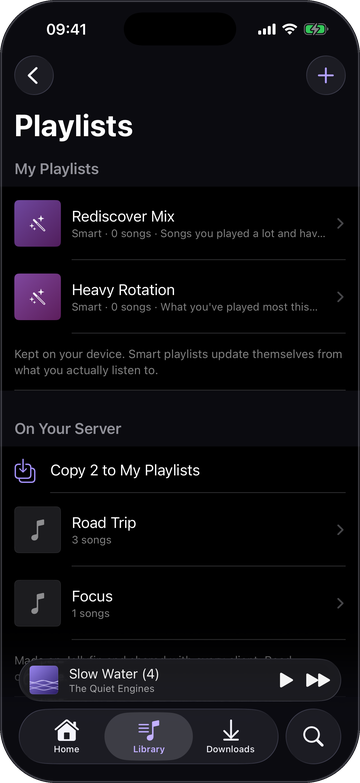
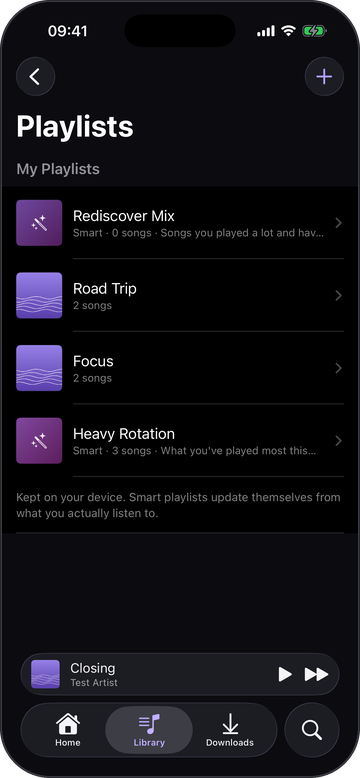
Say Melete where the docs and comments still said Jellyfin
CurationKit's comments now name Melete or "the server" where they
described the server, and the jellyfinId field says why it keeps its
name: it is the sync format every device and Melete share.

docs/sync-design.md describes Melete as the server it is now. The
design briefs to the sidecar keep their text, with a dated note that
Melete serves the same routes. crossfade.md's Infinity section
describes /aoide/next in place of Instant Mix.

The Playlists screenshot no longer shows the server section.

diff --git a/Packages/CurationKit/Sources/CurationKit/Playlists.swift b/Packages/CurationKit/Sources/CurationKit/Playlists.swift
@@ -3,10 +3,10 @@ import GRDB
 
 // MARK: - References
 
-/// The pair a playlist entry stores for every track: the id Jellyfin answers to
+/// The pair a playlist entry stores for every track: the id the server answers to
 /// today, and the fingerprint that outlives it.
 ///
-/// Both halves are kept because Jellyfin item ids are derived per-file — moving
+/// Both halves are kept because track ids belong to files — moving
 /// files or re-adding a library mints new ones on the next scan. An entry holding
 /// only an id would dangle with nothing left to search by; `relinkItems` is what
 /// the second half is for.
@@ -46,7 +46,7 @@ public enum PlaylistError: Error, Equatable, Sendable {
 public struct RelinkReport: Equatable, Sendable {
     /// Entries examined — every live playlist row.
     public var checked = 0
-    /// Rewritten to a new Jellyfin id found by content key.
+    /// Rewritten to a new track id found by content key.
     public var relinked = 0
     /// Previously marked unresolved and resolving again, so the mark was cleared.
     public var recovered = 0
@@ -61,12 +61,12 @@ public extension PlaylistItem {
     ///
     /// The schema has no `unresolved` column and this deliberately does not add one:
     /// the state is a property of the id — "this no longer points anywhere" — and a
-    /// migration for it would have to be agreed by every device and the sidecar
+    /// migration for it would have to be agreed by every device and the server
     /// before the flag could travel. Living inside a column that already syncs, it
     /// travels for free, and a build that has never heard of the marker simply fails
-    /// to resolve the id, which is precisely the situation the entry is in. Jellyfin
-    /// item ids are hex GUIDs, so a colon cannot occur in a real one and the marker
-    /// can never be mistaken for part of an id.
+    /// to resolve the id, which is precisely the situation the entry is in. Track
+    /// ids are integers (hex GUIDs in entries from Jellyfin), so a colon cannot
+    /// occur in a real one and the marker can never be mistaken for part of an id.
     static let unresolvedPrefix = "unresolved:"
 
     var isUnresolved: Bool { jellyfinId.hasPrefix(Self.unresolvedPrefix) }
@@ -444,7 +444,7 @@ public extension CurationStore {
 // MARK: - Relinking
 
 public extension CurationStore {
-    /// Repairs entries whose Jellyfin id stopped resolving, by content key.
+    /// Repairs entries whose track id stopped resolving, by content key.
     ///
     /// Two closures rather than one because they are two different questions and a
     /// caller may well answer them from two different places: `live` is "does this id
@@ -499,7 +499,7 @@ public extension CurationStore {
     }
 
     /// Relinks against the local track cache, which is this device's mirror of what
-    /// Jellyfin currently holds. This is the pass to run after a library scan.
+    /// the server currently holds. This is the pass to run after a library scan.
     @discardableResult
     func relinkItemsAgainstTrackCache(now: Millis = Date().millis) throws -> RelinkReport {
         let cache = try read { db in try TrackRef.fetchAll(db) }
@@ -647,10 +647,10 @@ private extension CurationStore {
     }
 }
 
-// MARK: - Importing from Jellyfin
+// MARK: - Importing server playlists
 
 public extension CurationStore {
-    /// The local copy of a Jellyfin playlist, if one has been imported.
+    /// The local copy of a server playlist, if one has been imported.
     func importedPlaylist(from sourceJellyfinId: String) throws -> Playlist? {
         try read { db in
             try Playlist
@@ -660,7 +660,7 @@ public extension CurationStore {
         }
     }
 
-    /// Which Jellyfin playlists already have a local copy.
+    /// Which server playlists already have a local copy.
     func importedSourceIds() throws -> Set<String> {
         try read { db in
             try Set(String.fetchAll(
@@ -670,9 +670,9 @@ public extension CurationStore {
         }
     }
 
-    /// Copies a Jellyfin playlist into a local one, or refreshes the copy that exists.
+    /// Copies a server playlist into a local one, or refreshes the copy that exists.
     ///
-    /// A copy rather than a link, because the two cannot stay in step: Jellyfin has no
+    /// A copy rather than a link, because the two cannot stay in step: the server has no
     /// way to tell us it changed, and a local playlist that silently drifts from a
     /// server one it claims to mirror is worse than an honest snapshot. Refreshing is
     /// therefore explicit, and replaces the contents outright — the server's order is
@@ -721,8 +721,8 @@ public extension CurationStore {
 
     /// Up to `limit` distinct albums per playlist, in playing order.
     ///
-    /// For drawing a cover from what a playlist holds, the way Jellyfin and Apple
-    /// Music both do. Distinct *albums* rather than tracks: a playlist of one album
+    /// For drawing a cover from what a playlist holds, the way Apple Music
+    /// does. Distinct *albums* rather than tracks: a playlist of one album
     /// would otherwise tile the same square four times, which reads as a rendering
     /// bug rather than as a deliberate mosaic.
     ///

diff --git a/Packages/CurationKit/Sources/CurationKit/Schema.swift b/Packages/CurationKit/Sources/CurationKit/Schema.swift
@@ -18,7 +18,7 @@ enum Schema {
         #endif
 
         migrator.registerMigration("v1") { db in
-            // Local cache of what Jellyfin knows, so a playlist can render its rows
+            // Local cache of what the server knows, so a playlist can render its rows
             // offline. Deliberately not synced: every device rebuilds it from its
             // own connection to the same server, and shipping it would dominate the
             // sync payload for no gain.
@@ -63,7 +63,7 @@ enum Schema {
                 t.primaryKey("id", .text)
                 t.column("playlistId", .text).notNull()
                 t.column("jellyfinId", .text).notNull()
-                // Stored beside the id because Jellyfin ids are derived per-file: a
+                // Stored beside the id because track ids belong to files: a
                 // library rescan after files move mints new ones, and without this
                 // every entry would dangle with no way back.
                 t.column("contentKey", .text).notNull()
@@ -86,9 +86,9 @@ enum Schema {
 
             // Append-only. Never updated after insert, which is what makes it the
             // easiest thing here to sync: there is no such thing as a conflicting
-            // append. It is also the only honest source of play counts — Jellyfin
-            // increments its own at playback *start*, so a four-second skip counts
-            // there exactly as much as a full listen.
+            // append. It is also the only honest source of play counts — a count
+            // taken at playback *start* counts a four-second skip
+            // exactly as much as a full listen.
             try db.create(table: "playEvent") { t in
                 t.primaryKey("id", .text)
                 t.column("jellyfinId", .text).notNull().indexed()
@@ -174,7 +174,7 @@ enum Schema {
         }
 
         migrator.registerMigration("v4") { db in
-            // Which Jellyfin playlist this was imported from, if any. Kept so a second
+            // Which server playlist this was imported from, if any. Kept so a second
             // import refreshes the same local playlist instead of silently making a
             // duplicate — and so the server list can say which of its playlists are
             // already here.
@@ -200,7 +200,7 @@ enum Schema {
         }
 
         migrator.registerMigration("v6") { db in
-            // A Jellyfin item id whose Primary image is this playlist's cover — never
+            // An album id whose cover is this playlist's cover — never
             // image bytes. The op log replays in full onto every fresh device and the
             // payload ceiling is 256 KB, so a cover stored as data would be the
             // largest thing in the system and would be copied forever. An id is
@@ -211,7 +211,7 @@ enum Schema {
             }
             // The album a cached track belongs to, so a playlist with no cover of its
             // own can be drawn from the albums it holds. The track cache is local and
-            // rebuilt from Jellyfin, so a null here just means "not seen since this
+            // rebuilt from the server, so a null here just means "not seen since this
             // column existed" and fills in on the next index.
             try db.alter(table: "track") { t in
                 t.add(column: "albumId", .text)

diff --git a/Packages/CurationKit/Sources/CurationKit/SyncEntity.swift b/Packages/CurationKit/Sources/CurationKit/SyncEntity.swift
@@ -4,8 +4,8 @@ import Foundation
 ///
 /// The names differ, and translating between them at the wire boundary is cheaper
 /// than agreeing on one: GRDB's tables are singular camelCase because the record
-/// types are, and the sidecar's allow-list is plural snake_case because its author
-/// wrote SQL. Rewriting every stored `op` row to spell its entity the server's way
+/// types are, and the server's allow-list is plural snake_case because the sidecar's
+/// author wrote SQL. Rewriting every stored `op` row to spell its entity the server's way
 /// would be a schema migration in service of a formatting preference, and it would
 /// still leave ops written by an older build spelling it the old way. Matching on
 /// the server is strict and case-sensitive, so these six strings *are* the contract.
@@ -20,7 +20,7 @@ public enum SyncEntity: String, CaseIterable, Hashable, Sendable {
 
     // `track` is absent on purpose, and its absence is the enforcement rather than a
     // rule written down somewhere. The track cache is per-device — every device
-    // rebuilds it from its own Jellyfin connection — so the server refuses the
+    // rebuilds it from its own server connection — so the server refuses the
     // entity outright. With no case to name it, an op for `track` cannot be turned
     // into a wire op at all; the only thing the push path can do with one is
     // quarantine it, which is what `WireOp.make` does.
@@ -28,7 +28,7 @@ public enum SyncEntity: String, CaseIterable, Hashable, Sendable {
     /// The GRDB table name, which is also this enum's raw value.
     public var localTable: String { rawValue }
 
-    /// The name in the sidecar's allow-list.
+    /// The name in the server's allow-list.
     public var wireName: String {
         switch self {
         case .playlist: "playlists"
@@ -43,7 +43,7 @@ public enum SyncEntity: String, CaseIterable, Hashable, Sendable {
 
     /// Entities a server may not know yet.
     ///
-    /// The sidecar's entity list is an allow-list and an unknown name is refused,
+    /// The server's entity list is an allow-list and an unknown name is refused,
     /// which by the contract would quarantine the op — real user data lost to a
     /// deployment order. Ops for these are held locally instead until the server
     /// advertises the entity in `/aoide/sync/status`. Everything older than the

diff --git a/Packages/CurationKit/Sources/CurationKit/Models.swift b/Packages/CurationKit/Sources/CurationKit/Models.swift
@@ -26,6 +26,8 @@ public protocol Syncable {
 public struct TrackRef: Codable, FetchableRecord, PersistableRecord, Hashable, Sendable {
     public static let databaseTableName = "track"
 
+    /// The server's track id. Named for Jellyfin, the server Aoide started on: the
+    /// name is part of the sync format every device and Melete share, so it stays.
     public var jellyfinId: String
     public var contentKey: String
     public var musicbrainzId: String?
@@ -75,7 +77,7 @@ public struct TrackRef: Codable, FetchableRecord, PersistableRecord, Hashable, S
     }
 }
 
-/// The fingerprint that survives a Jellyfin rescan.
+/// The fingerprint that survives a rescan that gives a track a new id.
 ///
 /// Normalised hard, because the point is to match the *same recording* after its id
 /// changed — not to be a checksum. Duration is rounded to the second so a re-encode
@@ -146,9 +148,10 @@ public struct Playlist: Codable, FetchableRecord, PersistableRecord, Syncable, F
     public var originDevice: String
     /// When each field last changed. `nil` on rows written before per-field merging.
     public var fieldUpdatedAt: FieldStamps?
-    /// The Jellyfin playlist this was imported from, if it was.
+    /// The server playlist this was imported from, if it was (Jellyfin playlists, before
+    /// Melete).
     public var sourceJellyfinId: String?
-    /// A Jellyfin item whose cover stands in for this playlist's. `nil` means one is
+    /// An album whose cover stands in for this playlist's. `nil` means one is
     /// drawn from the playlist's own albums instead.
     public var artworkItemId: String?
     /// SHA-256 of a cover uploaded for this playlist, when one was chosen from
@@ -365,7 +368,7 @@ public struct QueueState: Codable, FetchableRecord, PersistableRecord, Hashable,
 
     public var deviceId: String
     public var deviceName: String
-    /// JSON array of Jellyfin ids.
+    /// JSON array of track ids.
     public var trackIds: String
     public var position: Int
     public var elapsedMs: Int

diff --git a/Packages/CurationKit/Sources/CurationKit/SyncAccount.swift b/Packages/CurationKit/Sources/CurationKit/SyncAccount.swift
@@ -41,7 +41,7 @@ public extension CurationStore {
         }
     }
 
-    /// The Jellyfin user whose library this store holds, if it has been claimed.
+    /// The account whose library this store holds, if it has been claimed.
     func accountId() throws -> String? {
         try read { db in
             try String.fetchOne(db, sql: "SELECT value FROM syncState WHERE key = 'account'")
@@ -63,7 +63,7 @@ public extension CurationStore {
     /// somebody else.
     ///
     /// The pull cursor is the sharp edge. It is a position in *one user's* log, and
-    /// the sidecar scopes its sequences per user — so carrying a cursor of 4000 into
+    /// Melete scopes its sequences per user — so carrying a cursor of 4000 into
     /// a second account skips that account's first four thousand ops permanently, and
     /// nothing ever offers them again. Erasing the rows and keeping the cursor would
     /// be the worst of both.
@@ -173,7 +173,7 @@ public extension CurationStore {
 
     /// Whether there is anything here worth asking about.
     ///
-    /// Deliberately excludes `track`, which is a rebuildable cache of what Jellyfin
+    /// Deliberately excludes `track`, which is a rebuildable cache of what the server
     /// already knows and reveals nothing about a person — a store holding only a
     /// track cache is not evidence of somebody's listening.
     private static func holdsData(_ db: Database) throws -> Bool {

diff --git a/Packages/CurationKit/Sources/CurationKit/TrackCache.swift b/Packages/CurationKit/Sources/CurationKit/TrackCache.swift
@@ -18,7 +18,7 @@ public extension CurationStore {
     /// `writeLocal` rather than `record`, for the same reason the recorder uses it: this
     /// table is a mirror of what the server already holds, rebuilt by each device from
     /// its own connection. Syncing it would dominate the payload and tell the other
-    /// devices nothing they couldn't ask Jellyfin themselves.
+    /// devices nothing they couldn't ask the server themselves.
     ///
     /// One transaction for the whole batch rather than one per row. An index pass over a
     /// large library is thousands of rows, and a transaction each turns a single fsync
@@ -66,7 +66,7 @@ public extension CurationStore {
     ///
     /// The counterpart to `cacheTracks`, and the only reader `lastSeenAt` has ever had.
     /// Without it this table is append-only, and two things break the first time a
-    /// Jellyfin rescan mints new ids for files that moved — the case the whole
+    /// rescan mints new ids for files that moved — the case the whole
     /// content-key apparatus exists for. `relinkItemsAgainstTrackCache` still finds the
     /// retired id sitting in the cache, concludes it is `live`, and repairs nothing. And
     /// every smart playlist, whose universe *is* this table, then evaluates against a

diff --git a/Packages/CurationKit/Sources/CurationKit/SyncTransport.swift b/Packages/CurationKit/Sources/CurationKit/SyncTransport.swift
@@ -343,13 +343,13 @@ extension PullResponse: Codable {
 /// The network, held at arm's length.
 ///
 /// CurationKit has no networking in it and this protocol is what keeps that true.
-/// The app implements it over `JellyfinClient` — same host, same token, base path
+/// The app implements it over `MeleteClient` — same host, same token, base path
 /// `/aoide/sync` — and the package stays buildable and testable from the command
 /// line on macOS, with a fake server standing in for the real one. Without this
-/// seam the sync engine could only be exercised against a running Jellyfin.
+/// seam the sync engine could only be exercised against a running server.
 /// Moving cover bytes, which travel outside the op log.
 ///
-/// Separate from `SyncTransport` because it is optional: a sidecar without the image
+/// Separate from `SyncTransport` because it is optional: a server without the image
 /// endpoints still syncs everything else, and a transport that cannot do this says so
 /// by not conforming rather than by throwing at the moment somebody picks a picture.
 public protocol SyncImageTransport: Sendable {

diff --git a/Packages/CurationKit/Sources/CurationKit/SmartPlaylist.swift b/Packages/CurationKit/Sources/CurationKit/SmartPlaylist.swift
@@ -18,7 +18,7 @@ public struct SmartRule: Codable, Hashable, Sendable {
     /// The columns a rule may talk about.
     ///
     /// The raw values are the spellings in docs/sync-design.md, which is what the
-    /// sidecar will be written against, so those are the only ones ever emitted.
+    /// server is written against, so those are the only ones ever emitted.
     public enum Field: String, Codable, Hashable, Sendable, CaseIterable {
         case title, artist, album
         case albumArtist = "album_artist"
@@ -319,7 +319,7 @@ public struct RelativeInterval: Hashable, Sendable {
 
 public extension CurationStore {
 
-    /// The Jellyfin ids matching `rules`, in the rule set's own order.
+    /// The track ids matching `rules`, in the rule set's own order.
     ///
     /// `now` is a parameter rather than a call to `Date()` inside, for two reasons
     /// that turn out to be the same one: a test cannot be deterministic otherwise,

diff --git a/Packages/CurationKit/Sources/CurationKit/NextRanking.swift b/Packages/CurationKit/Sources/CurationKit/NextRanking.swift
@@ -1,13 +1,13 @@
 import Foundation
 
-/// The rule the sidecar follows to choose what plays next — `docs/infinity.md`,
+/// The rule Melete follows to choose what plays next — `docs/infinity.md`,
 /// as arithmetic — written out here so the rule has a reference on the client
 /// and a fixture can be generated from it.
 ///
 /// Not what the app runs: the app asks the server (``NextChooser``). This is
 /// what the server is *held to*: `NextRankingFixtureTests` runs it over a
 /// hand-written library and history and compares every score and factor to
-/// the fixture file the sidecar and the desktop also read. Three
+/// the fixture file Melete and the desktop also read. Three
 /// implementations, one file, and a number that differs is a bug in whichever
 /// side is wrong.
 ///

diff --git a/Packages/CurationKit/Sources/CurationKit/SyncMerge.swift b/Packages/CurationKit/Sources/CurationKit/SyncMerge.swift
@@ -430,7 +430,7 @@ struct InboundApplier {
     /// either.** Checking only against the server's `receivedAt` — which is what the
     /// contract suggests and what this used to do — asks "is the writer's clock ahead
     /// of the server's". That question cannot tell a fast client from a *slow server*,
-    /// and the two need opposite treatment. A Jellyfin box on a NAS with no RTC, or a
+    /// and the two need opposite treatment. A server on a NAS with no RTC, or a
     /// VM resumed from a snapshot, can sit hours behind: every device is then "ahead"
     /// of it, every inbound row gets dragged back to a receipt time older than the
     /// local copy it is being compared with, and every device rejects every other

diff --git a/Packages/CurationKit/Sources/CurationKit/SyncEngine.swift b/Packages/CurationKit/Sources/CurationKit/SyncEngine.swift
@@ -85,7 +85,7 @@ public actor SyncEngine {
     private let capabilities: (any SyncCapabilityTransport)?
     /// Local table names whose ops are being held. See `SyncEntity.needsServerSupport`.
     public private(set) var heldEntities: Set<String> = []
-    /// Both optional: a sidecar without the image endpoints still syncs everything
+    /// Both optional: a server without the image endpoints still syncs everything
     /// else, and covers simply stay on the device that chose them.
     private let images: (any SyncImageTransport)?
     private let imageBytes: (any ImageByteSource)?

diff --git a/Packages/CurationKit/Sources/CurationKit/PlayDefinition.swift b/Packages/CurationKit/Sources/CurationKit/PlayDefinition.swift
@@ -3,8 +3,8 @@ import Foundation
 // What a play is, and what a skip is — in one place, in both languages this package
 // needs them in.
 //
-// Jellyfin increments its PlayCount the moment playback starts, so a four-second skip
-// counts there exactly as much as a full listen. Everything here exists to be honest
+// A server that counts a play the moment playback starts counts a four-second skip
+// exactly as much as a full listen. Everything here exists to be honest
 // where that is not.
 //
 // There are two consumers and they must never disagree. `PlayHistory` asks in SQL for
